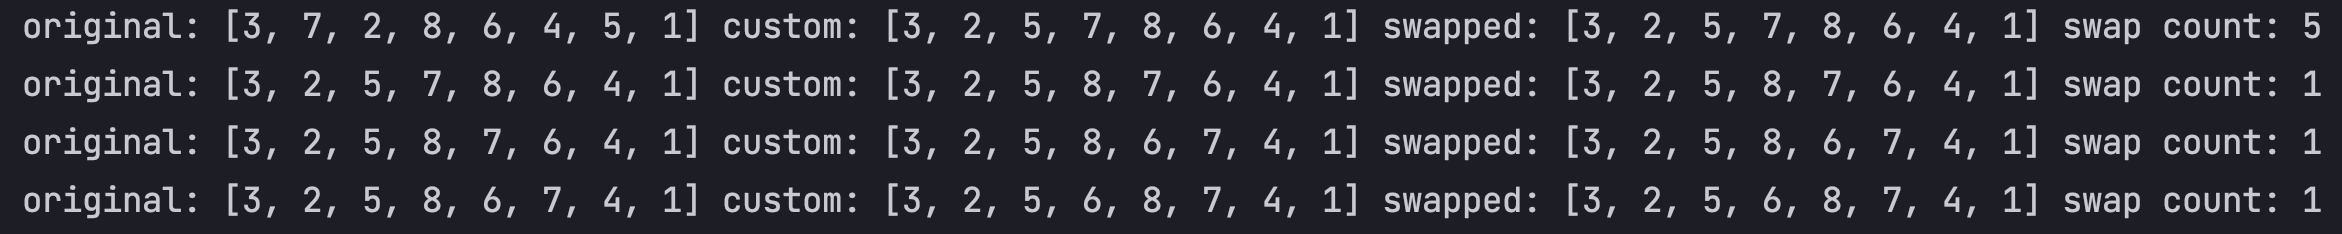
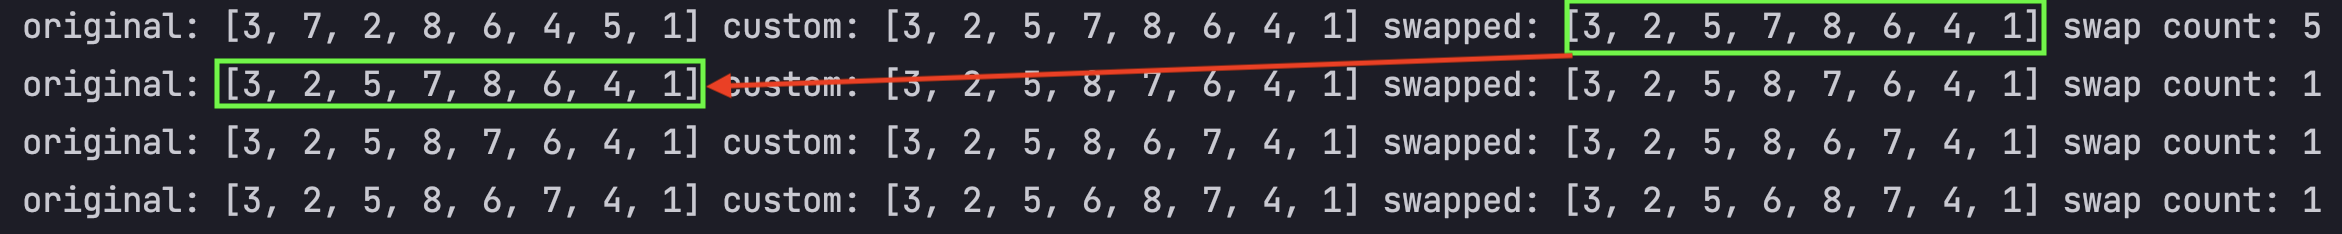
cbr 로 느낄 수 있는 문제 상황을 제시

Changed region(s): [[0.0935, 0.2094, 0.8728, 0.4786], [0.6546, 0.0, 0.8728, 0.0299]]

diff --git a/Lecture/JAVA/javaIsCallByValue.md b/Lecture/JAVA/javaIsCallByValue.md
@@ -8,8 +8,45 @@
 앞서 말했듯 자바는 `call by value` 라고 이미 알고있던 나는.. 코딩테스트 solution의 출력 결과를 보고 멘붕에 빠지게 된다.
 
 아래 출력은 내가 실제로 나는 쏘* 코딩테스트를 보면서 있었던 일이다.  
-나는 코딩테스트 시간이 촉박했기에 swap 로직의 문제를 해결하지 못하고 우선 제출했지만.. 회고하려고 한다.
+나는 코딩테스트 시간이 촉박했기에 swap 로직의 copy address 문제를 해결하지 못하고 우선 제출했지만.. 회고하려고 한다.
 
 <p align="center">
-    <img src="../../img/socar-myResult-console.png" width="750px">
+    <img src="../../img/socar-myResult-console.png" width="800px">
 </p>
+
+콘솔에 보이는 `original: [*, *, * ...]` 출력은 아래 예시코드로 설명하면 다음과 같다.  
+`main()` 에서 `primitiveArrayCallByRef()` 에 `original`에 해당하는 array를 인자로 넘기고 호출 한 뒤 `primitiveArrayCallByRef()`에서 파라미터로 받은 배열을 출력한 것이다.
+
+> swap을 반복할 때마다(메소드를 호출 할 때마다) `swapped: [*, *, * ...]` 의 배열이 다음 original 배열의 값에 전이(영향)가 되는 것을 확인할 수 있다.
+
+아래의 코드를 참고하면 더 이해가 잘 될 것이다.
+
+```java
+public static void main(String[] args) {
+    int[] array = new int[]{1, 2, 3, 4, 5};
+
+    for (int i=0; i<3; i++){
+        primitiveArrayCallByRef(array);
+    }
+
+}
+
+private static void primitiveArrayCallByRef(int[] array) {
+
+    System.out.println("=============");
+    System.out.println(Arrays.toString(array)); 
+
+    for (int i=0; i<array.length; i++){
+        if (i == 1){
+            // swap
+            int temp = array[i];
+            array[i] = array[i+1];
+            array[i+1] = temp;
+        }
+    }
+}
+```
+
+어떻게 보면 자바는 `Call By Reference`와 `Call By Value`가 공존하는 언어가 아닐까? 하는 생각이 들 것이다.  
+
+여러 커뮤니티에 "java는 `Call By Value`다. `Call By Ref`도 존재한다." 를 두고 열렬한 토론을 하고 있었다. 나는 이럴 때 일수록, 이런 결과에도 불구하고 java가 `Call By Value` 라는 점을 증명하려 한다.
